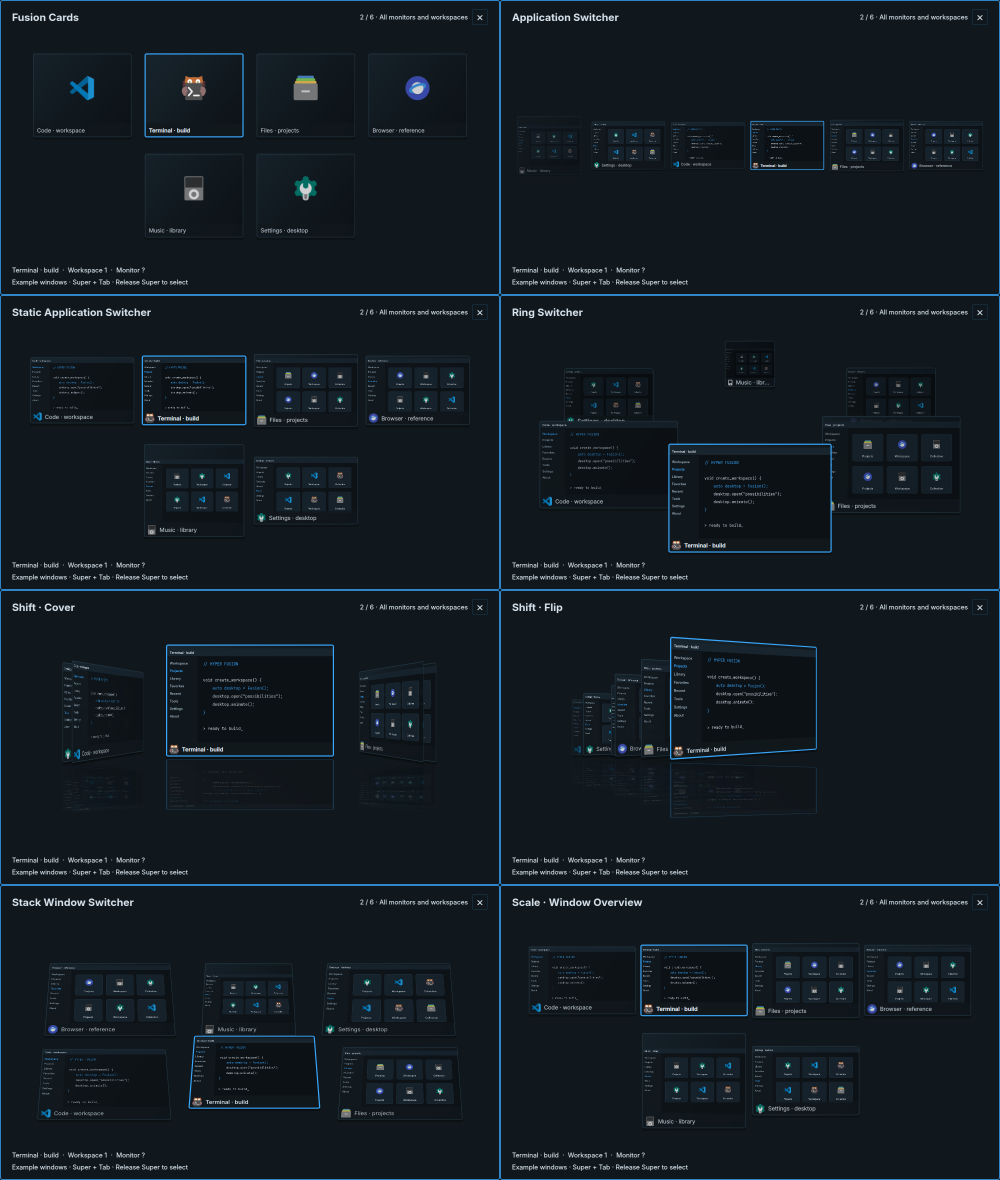
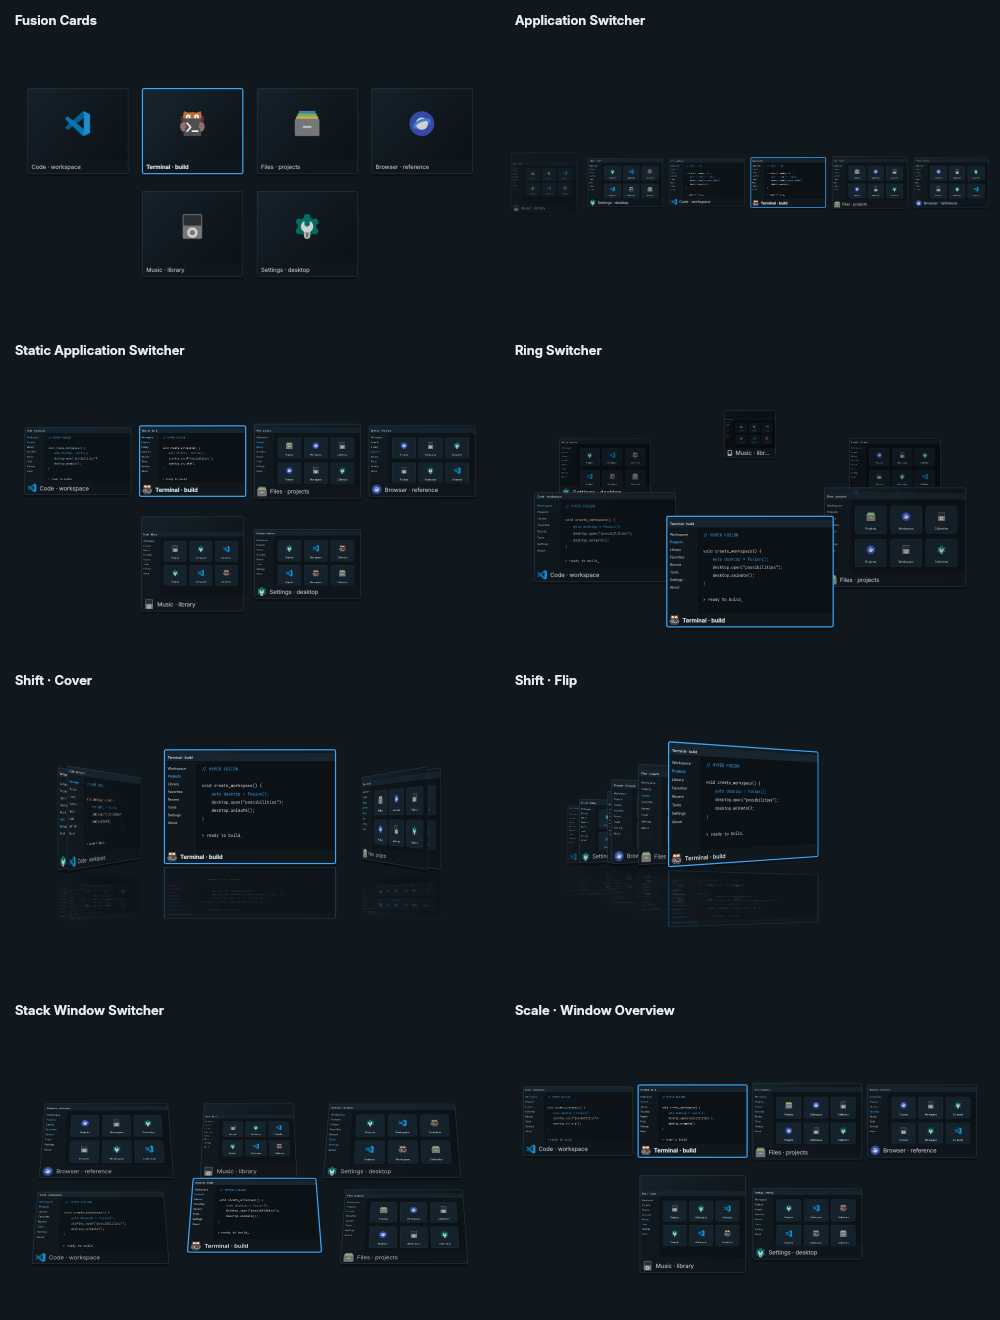
Render task switcher cards as transparent desktop overlays

diff --git a/config/hypr/switcher/app.py b/config/hypr/switcher/app.py
@@ -7,30 +7,25 @@ import json
 import os
 from pathlib import Path
 import re
-import subprocess
 import sys
 import signal
 
 from functools import lru_cache
 
-from PyQt6.QtCore import Qt, QEvent, QRectF, QTimer
-from PyQt6.QtGui import QColor, QFont, QIcon, QPainter, QPen, QLinearGradient
+from PyQt6.QtCore import Qt, QEvent, QTimer
+from PyQt6.QtGui import QIcon
 from PyQt6.QtNetwork import QLocalSocket
-from PyQt6.QtWidgets import (QApplication, QWidget, QVBoxLayout, QHBoxLayout, QLabel,
-                            QSizePolicy)
+from PyQt6.QtWidgets import QApplication, QWidget, QVBoxLayout
 
 ROOT = Path(__file__).resolve().parents[1]
 sys.path.insert(0, str(ROOT/'control_center'))
 from desktop_settings import ctl
 sys.path.insert(0,str(ROOT/'theme'))
 import runtime as theme_runtime
-from window_chrome import close_button
 sys.path.insert(0, str(ROOT))
-from switcher import preferences
+from switcher import preferences, overlay
 from switcher.scene import Scene, sample_clients, sample_pictures
 from switcher.previews import PreviewQueue
-
-def color(value): return QColor(theme_runtime.recolor(value,theme_runtime.mode()))
 
 EXCLUDED = {'xetal-switcher', 'xetal-launcher', 'hypr-display-id'}
 
@@ -95,38 +90,19 @@ class Switcher(QWidget):
         self.preview = preview; self.original = ''; self.monitor = None; self.clients = []; self.index = 0
         self.options = preferences.current(); self.monitors = {}; self.generation = 0
         self.setWindowTitle('Switch applications')
-        self.setWindowFlags(Qt.WindowType.FramelessWindowHint | Qt.WindowType.WindowStaysOnTopHint)
-        self.setAttribute(Qt.WidgetAttribute.WA_TranslucentBackground)
+        overlay.configure(self)
         theme_runtime.install(QApplication.instance(),
             'QWidget { color:#e6eef9; font:13px "Noto Sans"; background:transparent; }')
-        root = QVBoxLayout(self); root.setContentsMargins(24, 18, 24, 18); root.setSpacing(8)
-        top = QHBoxLayout(); self.title = QLabel(); self.title.setStyleSheet('font-size:21px; font-weight:700;')
-        top.addWidget(self.title); top.addStretch(); self.count = QLabel(); top.addWidget(self.count)
-        self.title.setSizePolicy(QSizePolicy.Policy.Ignored, QSizePolicy.Policy.Preferred)
-        self.count.setSizePolicy(QSizePolicy.Policy.Ignored, QSizePolicy.Policy.Preferred)
-        self.count.setAlignment(Qt.AlignmentFlag.AlignRight | Qt.AlignmentFlag.AlignVCenter)
-        top.setStretch(0, 1); top.setStretch(1, 0); top.setStretch(2, 1)
-        self.close_button = close_button(self, self.cancel, 'Cancel app switching'); top.addWidget(self.close_button)
-        root.addLayout(top)
+        root = QVBoxLayout(self); root.setContentsMargins(12, 12, 12, 12)
         self.scene = Scene(); self.scene.activated.connect(self.choose); self.scene.stepped.connect(self.cycle)
+        self.scene.dismissed.connect(self.cancel)
         root.addWidget(self.scene, 1)
-        self.detail = QLabel(); self.detail.setWordWrap(False); root.addWidget(self.detail)
-        self.detail.setSizePolicy(QSizePolicy.Policy.Ignored, QSizePolicy.Policy.Preferred)
-        self.hint = QLabel('Hold Super · Tab / Shift+Tab to cycle · Release Super to open · Esc to cancel')
-        self.hint.setWordWrap(True); root.addWidget(self.hint)
         self.queue = PreviewQueue(self); self.queue.changed.connect(lambda _: self.scene.update())
         self.scene.pictures = self.queue.cache
         self.position_timer = QTimer(self); self.position_timer.setSingleShot(True)
         self.position_timer.timeout.connect(self.position)
-        for obj in (self, self.scene, self.close_button): obj.installEventFilter(self)
+        for obj in (self, self.scene): obj.installEventFilter(self)
         self.resize(1100, 640)
-
-    def paintEvent(self, event):
-        p = QPainter(self); p.setRenderHint(QPainter.RenderHint.Antialiasing)
-        colors = theme_runtime.colors(); fill = QColor(colors['Window']); fill.setAlpha(round(self.options['opacity']*2.55))
-        p.setBrush(fill); p.setPen(QPen(QColor(colors['Accent']), 1.5))
-        radius = 4 if theme_runtime.design() == 'binaryknife' else 12
-        p.drawRoundedRect(QRectF(self.rect()).adjusted(1, 1, -1, -1), radius, radius)
 
     def begin(self, direction=1):
         if self.isVisible(): self.cycle(direction); return
@@ -153,7 +129,7 @@ class Switcher(QWidget):
         self.clients = [{**client, '_icon': client.get('_icon') or window_icon(client)} for client in clients]
         self.monitors = monitors or self.monitors
         self.scene.configure(self.options, self.clients); self.index = 0
-        self.title.setText(preferences.STYLES[self.options['style']]); self.describe()
+        self.describe()
 
     def fit_monitor(self):
         if not self.monitor: return
@@ -194,14 +170,13 @@ class Switcher(QWidget):
 
     def describe(self):
         total = len(self.clients)
-        self.count.setText(f'{self.index+1 if total else 0} / {total} · {preferences.SCOPES[self.options["scope"]]}')
-        if not total: self.detail.clear(); return
+        if not total: self.scene.setAccessibleDescription('No windows'); return
         client = self.clients[self.index]
         workspace = str(client.get('workspace', {}).get('name', '?')).removeprefix('special:')
         monitor = self.monitors.get(client.get('monitor'), ('?', '?'))[0]
         text = f'{client.get("title") or client.get("class", "Window")}  ·  Workspace {workspace}  ·  Monitor {monitor}'
-        self.detail.setToolTip(text)
-        self.detail.setText(self.detail.fontMetrics().elidedText(text, Qt.TextElideMode.ElideRight, max(100, self.width()-60)))
+        self.scene.setAccessibleDescription(f'{self.index+1} of {total} · {text}. '
+            'Tab to cycle, release Super to select, Escape or click empty space to cancel.')
 
     def remove_window(self, address):
         if not self.clients: return
@@ -259,7 +234,6 @@ def main():
         if args.style: window.options['style'] = args.style
         window.populate(sample_clients(), {0: (1, 'Left'), 1: (2, 'Center'), 2: (3, 'Right')})
         window.scene.pictures = sample_pictures(window.clients); window.select(1, False)
-        window.hint.setText('Example windows · Tab / arrows to explore · Esc to close')
         window.show(); window.scene.setFocus()
         if args.preview: QTimer.singleShot(150, lambda: (window.grab().save(args.preview), app.quit()))
         return app.exec()

diff --git a/config/hypr/switcher/page.py b/config/hypr/switcher/page.py
@@ -6,7 +6,7 @@ from PyQt6.QtWidgets import (QApplication, QCheckBox, QComboBox, QDialog, QFormL
     QFrame, QGroupBox, QHBoxLayout, QLabel, QMessageBox, QPushButton, QScrollArea,
     QSpinBox, QVBoxLayout, QWidget)
 
-from . import preferences
+from . import preferences, overlay
 from .scene import Scene, sample_clients, sample_pictures, theme_runtime
 
 
@@ -18,15 +18,16 @@ class PreviewDialog(QDialog):
     def __init__(self, options, parent):
         super().__init__(parent)
         self.setWindowTitle('Task Switcher · Preview'); self.setAttribute(Qt.WidgetAttribute.WA_DeleteOnClose)
+        overlay.configure(self)
         root = QVBoxLayout(self)
-        root.addWidget(label(preferences.STYLES[options['style']], 'brand'))
-        root.addWidget(label('Example windows · Tab / arrows to explore · Esc to close'))
+        root.setContentsMargins(12, 12, 12, 12)
         self.scene = Scene(); self.scene.configure(options, sample_clients())
         self.scene.pictures = sample_pictures(self.scene.clients) if options['live_previews'] else {}
         self.scene.activated.connect(lambda i: self.scene.select(i)); self.scene.stepped.connect(self.step)
+        self.scene.dismissed.connect(self.close)
+        self.scene.setAccessibleDescription('Example windows. Tab or arrows to explore. Escape or click empty space to close.')
         root.addWidget(self.scene, 1)
-        close = QPushButton('Close preview'); close.clicked.connect(self.close); root.addWidget(close)
-        for obj in (self, self.scene, close): obj.installEventFilter(self)
+        for obj in (self, self.scene): obj.installEventFilter(self)
         available = self.screen().availableGeometry()
         self.resize(min(1100, available.width()-40), min(650, available.height()-60))
         self.scene.setFocus()
@@ -73,6 +74,7 @@ class TaskSwitcherPage(QWidget):
         self.next = QPushButton('Next →'); self.next.clicked.connect(lambda: self.step(1)); row.addWidget(self.next)
         self.play = QCheckBox('Animate preview'); self.play.setChecked(True); self.play.toggled.connect(self.update_timer); row.addWidget(self.play)
         row.addStretch(); self.popup = QPushButton('Larger preview'); self.popup.clicked.connect(self.open_preview); row.addWidget(self.popup)
+        self.popup.setToolTip('Preview floating cards over your desktop. Press Esc or click empty space to close.')
         preview_layout.addLayout(row); body.addWidget(preview_box)
         columns = QHBoxLayout(); columns.setSpacing(16)
         general = QGroupBox('Behavior and appearance'); form = QFormLayout(general); form.setSpacing(8)
@@ -81,11 +83,11 @@ class TaskSwitcherPage(QWidget):
         self.scope.currentIndexChanged.connect(lambda: self.edit('scope', self.scope.currentData()))
         form.addRow('Windows to include', self.scope)
         for key, title, suffix in [('duration', 'Animation duration', ' ms'), ('size', 'Switcher size', '%'),
-                                    ('opacity', 'Panel opacity', '%'), ('inactive_opacity', 'Inactive windows', '%')]:
+                                    ('inactive_opacity', 'Inactive windows', '%')]:
             self.add_number(form, key, title, suffix)
         for key, title in [('live_previews', 'Live window previews'), ('show_titles', 'Show window titles'), ('show_icons', 'Show app icons')]:
             self.add_check(form, key, title)
-        form.addRow(label('Release Super to open the selection. Esc returns to your original window. Duration 0 disables motion.'))
+        form.addRow(label('Cards float directly over the desktop. Release Super to select; Esc or click empty space to cancel. Duration 0 disables motion.'))
         columns.addWidget(general, 1)
         self.specific = QGroupBox(); self.specific_form = QFormLayout(self.specific); self.specific_form.setSpacing(8)
         columns.addWidget(self.specific, 1); body.addLayout(columns); body.addStretch()

diff --git a/config/hypr/switcher/test_styles.py b/config/hypr/switcher/test_styles.py
@@ -45,9 +45,15 @@ class SettingsTests(unittest.TestCase):
 
     def test_malformed_and_out_of_range_configuration_is_rejected(self):
         for value in ([], {'version': True}, {'version': 2}, {'style': 'unknown'}, {'scope': []},
-                      {'duration': -1}, {'opacity': 101}, {'live_previews': 1}, {'profiles': []},
+                      {'duration': -1}, {'inactive_opacity': 101}, {'live_previews': 1}, {'profiles': []},
                       {'profiles': {'flip': {'flip_rotation': 90}}}):
             with self.subTest(value=value), self.assertRaises(ValueError): preferences.normalize(value)
+
+    def test_legacy_panel_opacity_is_ignored_without_resetting_saved_choices(self):
+        saved = preferences.normalize({'style': 'ring', 'duration': 315, 'opacity': 47,
+                                       'profiles': {'ring': {'ring_width': 82}}})
+        self.assertNotIn('opacity', saved)
+        self.assertEqual((saved['style'], saved['duration'], saved['profiles']['ring']['ring_width']), ('ring', 315, 82))
 
 
 class GeometryTests(unittest.TestCase):
@@ -145,10 +151,16 @@ class LifecycleTests(unittest.TestCase):
         self.options['scope'] = 'application'
         self.assertEqual([c['address'] for c in app.scoped(self.clients, self.options, self.active, self.monitor)], ['0x1'])
 
-    def test_narrow_monitor_does_not_force_title_bar_beyond_screen(self):
+    def test_narrow_monitor_keeps_overlay_on_screen(self):
         self.options['style'] = 'static'; self.monitor.update(width=640, height=480)
         self.window.begin(); QT.processEvents()
         self.assertLessEqual(self.window.width(), 616); self.assertLessEqual(self.window.height(), 424)
+
+    def test_empty_overlay_click_cancels_and_restores_original_window(self):
+        self.window.begin(); self.window.grab()
+        QTest.mouseClick(self.window.scene, Qt.MouseButton.LeftButton, pos=QPoint(3, 3))
+        self.assertFalse(self.window.isVisible())
+        self.assertEqual(self.calls[-1], ('dispatch', 'focuswindow', 'address:0x1'))
 
     def test_empty_session_does_not_show_or_capture(self):
         self.clients = []; self.active = {}; self.window.begin()

diff --git a/config/hypr/switcher/scene.py b/config/hypr/switcher/scene.py
@@ -17,6 +17,7 @@ from . import geometry, preferences
 class Scene(QWidget):
     activated = pyqtSignal(int)
     stepped = pyqtSignal(int)
+    dismissed = pyqtSignal()
 
     def __init__(self, parent=None, interactive=True):
         super().__init__(parent)
@@ -24,6 +25,8 @@ class Scene(QWidget):
         self.pictures = {}; self.hitboxes = []; self.interactive = interactive
         self.stack_from = {}; self.stack_progress = 1.
         self.setMinimumSize(180, 100); self.setFocusPolicy(Qt.FocusPolicy.StrongFocus)
+        self.setAutoFillBackground(False)
+        self.setStyleSheet('background:transparent; border:none;')
         self.setAccessibleName('Task switcher window previews')
         self.animation = QVariantAnimation(self); self.animation.setEasingCurve(QEasingCurve.Type.OutCubic)
         self.animation.valueChanged.connect(self.frame)
@@ -159,6 +162,7 @@ class Scene(QWidget):
             for index, polygon in reversed(self.hitboxes):
                 if polygon.containsPoint(event.position(), Qt.FillRule.OddEvenFill):
                     self.activated.emit(index); event.accept(); return
+            self.dismissed.emit(); event.accept(); return
         super().mouseReleaseEvent(event)
 
     def wheelEvent(self, event):

diff --git a/config/hypr/switcher/preferences.py b/config/hypr/switcher/preferences.py
@@ -40,9 +40,9 @@ PROFILES = {
     'scale': dict(spacing=10),
 }
 DEFAULTS = dict(version=1, style='fusion', scope='all', duration=200, size=80,
-                opacity=94, inactive_opacity=80, live_previews=True,
+                inactive_opacity=80, live_previews=True,
                 show_titles=True, show_icons=True, profiles=PROFILES)
-RANGES = dict(duration=(0, 700), size=(30, 100), opacity=(25, 100), inactive_opacity=(20, 100),
+RANGES = dict(duration=(0, 700), size=(30, 100), inactive_opacity=(20, 100),
               columns=(2, 8), thumb_width=(100, 650), thumb_height=(80, 450),
               ring_width=(10, 100), ring_height=(10, 100), min_scale=(10, 100),
               min_brightness=(10, 100), cover_offset=(-40, 40),

diff --git a/config/hypr/switcher/overlay.py b/config/hypr/switcher/overlay.py
@@ -1,0 +1,13 @@
+"""A transparent surface shared by live switching and the settings preview."""
+from PyQt6.QtCore import Qt
+
+
+def configure(widget):
+    widget.setObjectName('taskSwitcherOverlay')
+    widget.setProperty('xetalOverlay', True)
+    widget.setWindowFlags(widget.windowFlags() | Qt.WindowType.FramelessWindowHint
+                          | Qt.WindowType.WindowStaysOnTopHint | Qt.WindowType.NoDropShadowWindowHint)
+    widget.setAttribute(Qt.WidgetAttribute.WA_TranslucentBackground)
+    widget.setAutoFillBackground(False)
+    # Widget-local styling wins over every desktop theme, including QDialog fills.
+    widget.setStyleSheet('QWidget#taskSwitcherOverlay {background:transparent; border:none;}')

diff --git a/config/hypr/theme/window_chrome.py b/config/hypr/theme/window_chrome.py
@@ -33,7 +33,7 @@ def close_button(window,callback=None,title=None):
 
 class DialogHeaders(QObject):
     def eventFilter(self,window,event):
-        if not isinstance(window,QDialog) or not window.isWindow():return False
+        if not isinstance(window,QDialog) or not window.isWindow() or window.property('xetalOverlay'):return False
         if event.type()==QEvent.Type.Show and not window.property('xetalCloseButton'):
             margins=window.contentsMargins()
             window.setContentsMargins(margins.left(),margins.top()+38,margins.right(),margins.bottom())

diff --git a/README.md b/README.md
@@ -171,7 +171,7 @@ See the [Burn guide](config/hypr/effects/burn/README.md) and [Cube guide](config
 | **MP3 / MP4 popup** | **Super+Ctrl+P** opens the downloader. Selected links can prefill the address; choose MP3 to Music or MP4 to Videos, highest available source quality, with logs, cancel and an update button for the private yt-dlp copy. |
 | **Screenshots** | Area/all-display capture, clipboard support, clickable notifications and reveal-in-folder. Print keeps Apps open during capture. |
 | **Screen sharing** | A custom Hyprland portal picker with updating monitor/window previews and region selection. |
-| **Task Switcher** | **Super+Tab** across monitors/workspaces with eight choices: Fusion Cards, Compiz Application, Static Application, Ring, Shift Cover, Shift Flip, Stack, and Scale overview. Live window previews, animation controls, per-style settings, and a preview in **Fusion Settings → Theme → Task Switcher**. Release Super to focus the chosen app on its original monitor. [Details and Compiz sources](config/hypr/switcher/README.md). |
+| **Task Switcher** | **Super+Tab** across monitors/workspaces with eight choices: Fusion Cards, Compiz Application, Static Application, Ring, Shift Cover, Shift Flip, Stack, and Scale overview. Cards float directly over the desktop with live window previews and no surrounding panel. Animation controls, per-style settings, and a preview in **Fusion Settings → Theme → Task Switcher**. Release Super to focus the chosen app on its original monitor. [Details and Compiz sources](config/hypr/switcher/README.md). |
 | **Dolphin & Kitty** | A separate themed file-manager profile, folder-link handling, Places icons and wallpaper actions; themed terminal colors, animated cursor and draggable scrollback scrollbar. |
 | **Session** | Matching notifications and lock screen, logout confirmation, and helpers that stop with Hyprland. |
 

diff --git a/config/hypr/switcher/README.md b/config/hypr/switcher/README.md
@@ -19,13 +19,15 @@ a window preview also selects it.
 
 ![Eight Task Switcher styles, using example windows and the Binary Knife theme](../../../docs/screenshots/task-switchers.png)
 
-Shared controls cover the window scope, animation duration, overall size, panel
-opacity, inactive window opacity, live previews, titles, and icons. Appearance
+Shared controls cover the window scope, animation duration, overall size,
+inactive window opacity, live previews, titles, and icons. Appearance
 follows all desktop themes and color modes. Each style keeps its own settings.
 Mouse-wheel gestures over the settings controls scroll the page without changing
 their values. The preview buttons operate on example windows; they never switch
-applications or save settings. Reload detects external edits, and Discard restores
-the last saved choices. Closing Fusion Settings includes these unsaved edits in
+applications or save settings. Cards float directly over the desktop, without a
+surrounding panel, header, footer, blur, or compositor shadow. Click empty space
+to cancel, including in the larger preview. Reload detects external edits, and
+Discard restores the last saved choices. Closing Fusion Settings includes these unsaved edits in
 its existing confirmation.
 
 All monitors/workspaces are included by default, including mapped hidden group
